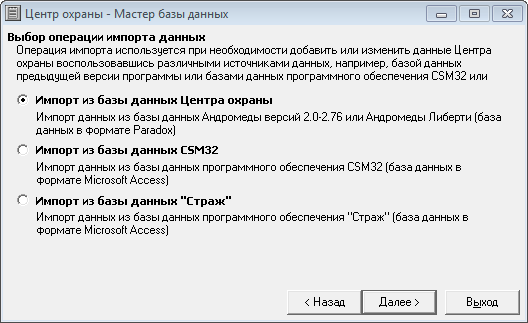
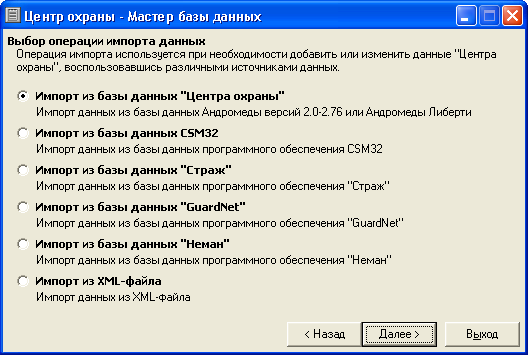
Импорт GuardNet, Неман и XML в модуле "Мастер базы данных".

Changed region(s): [[0.0, 0.0, 1.0, 1.0]]

diff --git a/russian/11-database-wizard.md b/russian/11-database-wizard.md
@@ -78,6 +78,9 @@
 * база данных программного обеспечения «Андромеда Либерти»
 * база данных программного обеспечения «Страж»
 * база данных программного обеспечения «CSM32»
+* база данных программного обеспечения «GuardNet»
+* база данных программного обеспечения «Неман»
+* база данных XML-файла
 
 ### Импорт из «Андромеды» версии 2.0 — 2.76 и «Андромеды Либерти»
 
@@ -154,6 +157,46 @@
 В списке «Классы событий CSM32» перечислены названия классов событий, используемых программным обеспечением «CSM32». При этом в скобках, после названия класса события, указан тип, который будет использоваться в программном обеспечении «Центр охраны». При необходимости этот тип можно изменить. Для этого нужно выбрать в списке класс события, для которого тип указан неверно и указать правильный тип класса события справа, в списке «Тип класса событий».
 
 Подробнее о назначении типов классов событий в программном обеспечении «Центр охраны» можно почитать в главе, посвященной модулю «Настройка системы», в разделе «Классы событий».
+
+### Импорт из «GuardNet»
+
+Программное обеспечение «Центр охраны» позволяет импортировать описания объектов, а также шаблоны событий из базы данных программного обеспечения «GuardNet».
+
+![Окно настроек операции импорта из базы данных программного обеспечения «GuardNet»][id-11-11]
+
+С помощью параметра «Путь к файлам базы данных «GuardNet» необходимо указать папку, в которой находится файл базы данных этого программного обеспечения (файл имеет расширение *.db).
+
+При выполнении импорта из базы данных программного обеспечения «GuardNet» можно сдвинуть номера импортируемых объектов. Суть операции сдвига заключается в том, что к номерам объектов, информация о которых переносится в «Центр охраны», будет добавлено слагаемое, указанное при настройке процедуры импорта. Например, если в качестве значения параметра «Сдвиг номеров объектов» указано значение 1000, а номера объектов в базе данных «GuardNet» лежат в диапазоне 1 - 600, то в базе данных «Центра охраны» эти объекты будут иметь номера в диапазон 1001 - 1600.
+
+Подробнее о функции сдвига номеров объектов в источниках событий можно почитать в главе, посвященной модулю «Менеджер событий», в разделе «Источники событий».
+
+### Импорт из «Неман»
+
+Программное обеспечение «Центр охраны» позволяет импортировать описания объектов из базы данных программного обеспечения «Неман». 
+
+![Окно настроек операции импорта из базы данных программного обеспечения «Неман»][id-11-12]
+
+Чтобы подключиться к базе данных, необходимо заполнить поле «Имя или IP-адрес компьютера с базой данных «Неман». В данном поле можно указать доменное имя компьютера, на котором находится база данных «Неман» (чаще всего это компьютер с установленной на нем серверной частью программного обеспечения), или его IP-адрес. Если база данных находится на локальном компьютере пользователя, в данном поле следует установить значение localhost.
+
+С помощью параметра «Папка базы данных «Неман» необходимо указать папку, в которой находится файл базы данных этого программного обеспечения (nmdb.fdb).
+
+Параметр «Пароль для доступа к базе данных» позволяет задать пароль, с помощью которого ограничен доступ к информации в базе данных программного обеспечения «Неман». В случае, если с момента установки программного обеспечения «Неман» пароль не менялся, то можно установить флаг «Использовать пароль по умолчанию» и процедура импорта будет использовать для доступа к базе данных программного обеспечения «Неман» заводской пароль.
+
+При выполнении импорта из базы данных программного обеспечения «Неман» можно сдвинуть номера импортируемых объектов. Суть операции сдвига заключается в том, что к номерам объектов, информация о которых переносится в «Центр охраны», будет добавлено слагаемое, указанное при настройке процедуры импорта. Например, если в качестве значения параметра «Сдвиг номеров объектов» указано значение 1000, а номера объектов в базе данных «Неман» лежат в диапазоне 1 - 600, то в базе данных «Центра охраны» эти объекты будут иметь номера в диапазон 1001 - 1600.
+
+Подробнее о функции сдвига номеров объектов в источниках событий можно почитать в главе, посвященной модулю «Менеджер событий», в разделе «Источники событий».
+
+### Импорт из XML-файла
+
+С помощью импорта из XML-файла можно импортировать в «Центр охраны» базу объектов программного обеспечения «Кобра».
+
+![Окно настроек операции импорта из XML-файла][id-11-13]
+
+С помощью параметра «Имя XML-файла» необходимо выбрать файл базы данных, указав к нему путь.
+
+При выполнении импорта из XML-файла можно сдвинуть номера импортируемых объектов. Суть операции сдвига заключается в том, что к номерам объектов, информация о которых переносится в «Центр охраны», будет добавлено слагаемое, указанное при настройке процедуры импорта. Например, если в качестве значения параметра «Сдвиг номеров объектов» указано значение 10000, а номера объектов в XML-файле лежат в диапазоне 1 - 2000, то в базе данных «Центра охраны» эти объекты будут иметь номера в диапазон 10001 - 12000.
+
+Подробнее о функции сдвига номеров объектов в источниках событий можно почитать в главе, посвященной модулю «Менеджер событий», в разделе «Источники событий».
 
 ## Экспорт данных
 
@@ -241,3 +284,6 @@
 [id-11-08]: img/AnDBWiz-EI-Imp-Csm-03.png "Окно настройки соответствия классов событий при импорте из базы данных программного обеспечения «CSM32»"
 [id-11-09]: img/AnDBWiz-EI-Exp-Csv-02.png "Окно выбора объектов и полей при настройке операции экспорта информации об объектах"
 [id-11-10]: img/AnDBWiz-EI-Exp-Csv-03.png "Окно настройки операции экспорта информации об объектах"
+[id-11-11]: img/AnDBWiz-EI-Imp-GN-02.png "Окно настроек операции импорта из базы данных программного обеспечения «GuardNet»"
+[id-11-12]: img/AnDBWiz-EI-Imp-Nmn-02.png "Окно настроек операции импорта из базы данных программного обеспечения «Неман»"
+[id-11-13]: img/AnDBWiz-EI-Imp-XML-02.png "Окно настроек операции импорта из XML-файла"
